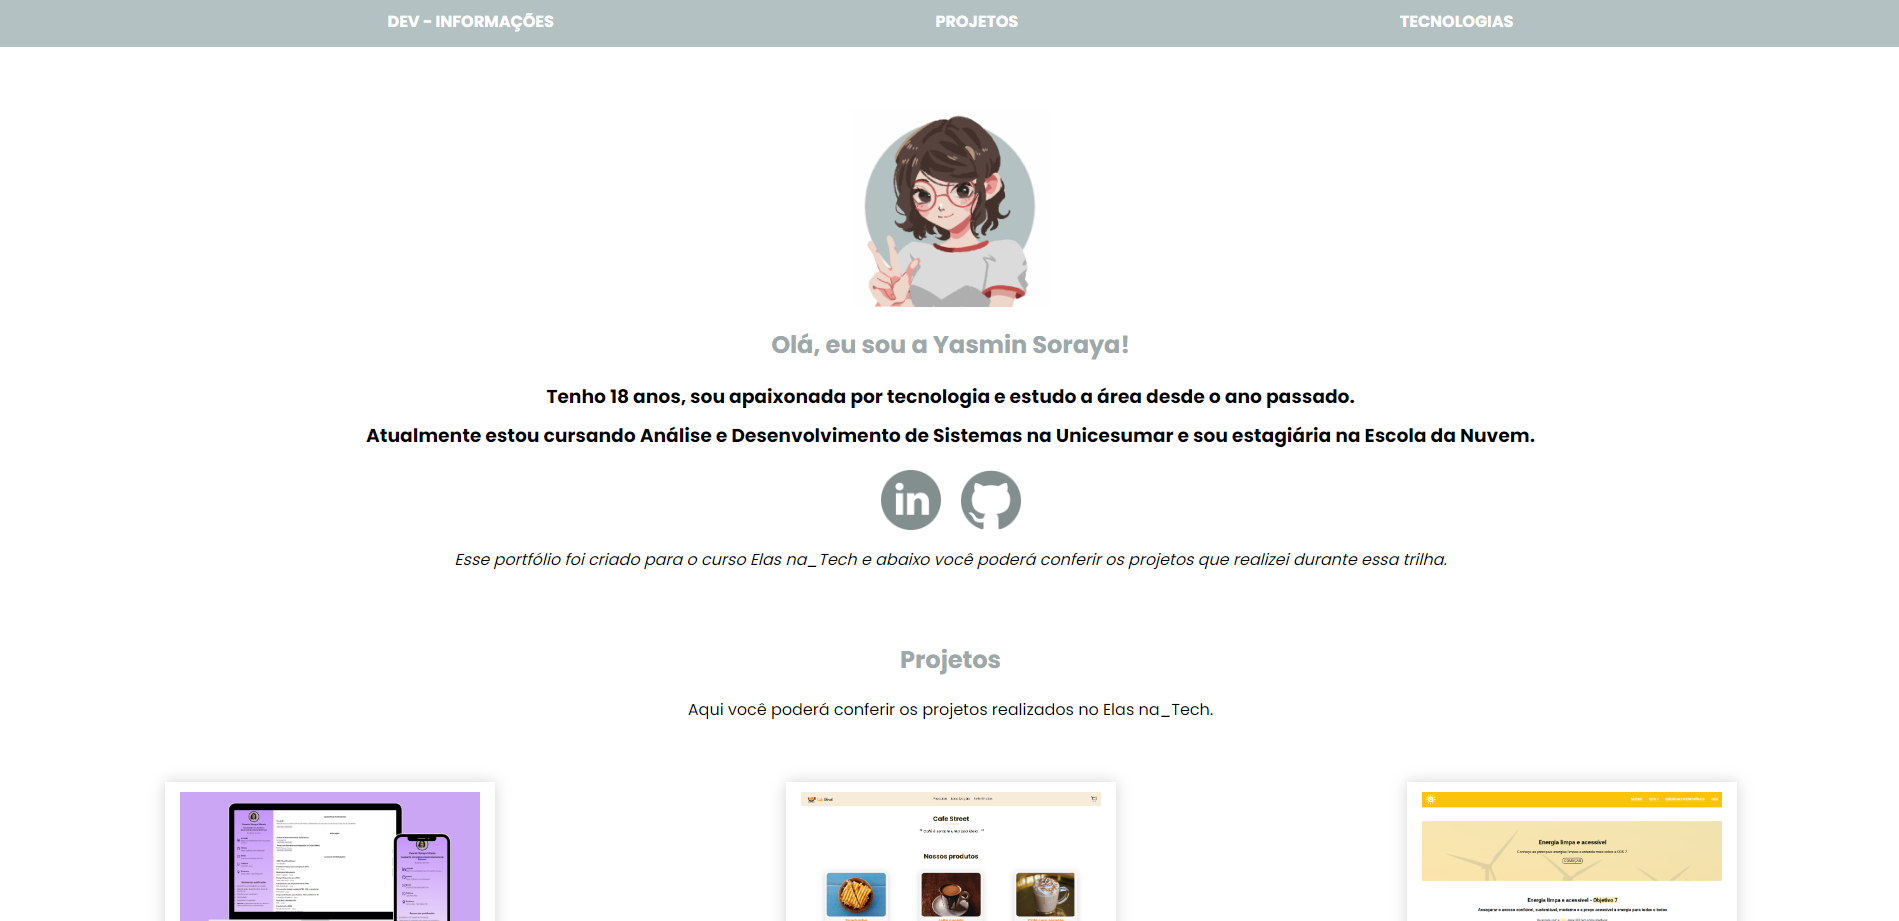
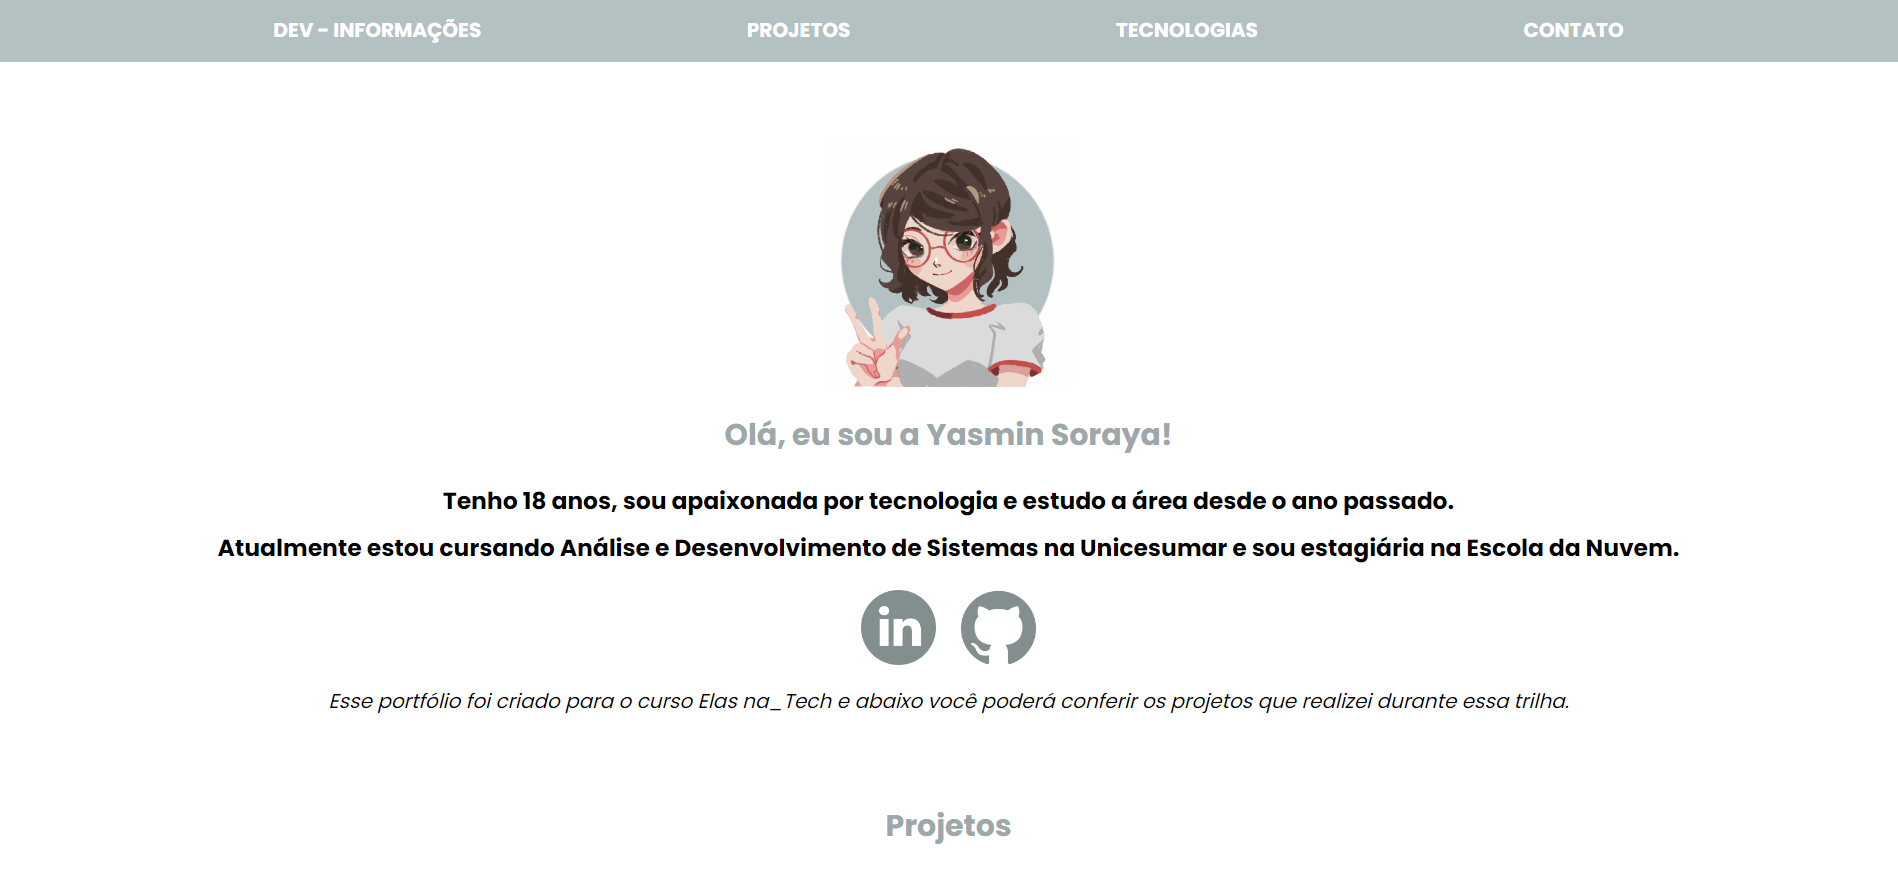
Alterações finais

diff --git a/contato.html b/contato.html
@@ -1,0 +1,70 @@
+<!DOCTYPE html>
+<html lang="pt-BR">
+
+<head>
+    <meta charset="UTF-8">
+    <meta name="viewport" content="width=device-width, initial-scale=1.0">
+    <title>Portfólio - Elas na_Tech</title>
+    <link rel="stylesheet" href="assets/css/styles.css">
+    <link rel="icon" href="assets/imgs/yasmin-icon.png">
+    <link rel="stylesheet"
+        href="https://fonts.googleapis.com/css2?family=Material+Symbols+Outlined:opsz,wght,FILL,GRAD@24,400,0,0" />
+</head>
+
+<body>
+    <nav id="nav-bar">
+        <div id="menu-icon">
+            <span class="material-symbols-outlined">
+                menu
+            </span>
+        </div>
+        <ul id="links">
+            <li class="link">
+                <a href="index.html#Dev">Dev - Informações</a>
+            </li>
+            <li class="link">
+                <a href="index.html#Projetos">Projetos</a>
+            </li>
+            <li class="link">
+                <a href="index.html#Tecnologias">Tecnologias</a>
+            </li>
+            <li class="link">
+                <a href="#Contato">Contato</a>
+            </li>
+        </ul>
+    </nav>
+
+    <section id="Contato">
+        <h1>Contato</h1>
+        <h3 class="info-dev">Entre em contato comigo pelas redes sociais ou pelo formulário abaixo</h3>
+        <div id="redes-sociais">
+            <a href="https://www.linkedin.com/in/yasmin-soraya/">
+                <img src="assets/imgs/linkedin-logo.png" alt="LinkedIn">
+            </a>
+            <a href="https://github.com/nimsaysm">
+                <img src="assets/imgs/github-logo.png" alt="GitHub">
+            </a>
+        </div>
+        <div id="form">
+            <h2>Envie sua mensagem</h2>
+            <form action="https://formsubmit.co/yasmin.soraya14@gmail.com" method="POST">
+                <label for="nome">Nome</label> <br>
+                <input type="text" name="name" id="nome" minlength="3" required> <br> <br>
+                
+                <label for="email">E-mail</label> <br>
+                <input type="email" name="email" id="email" pattern="(^[a-z0-9._%+-]+@[a-z0-9.-]+\.[a-z]{2,4}$)" required> <br> <br>
+    
+                <label for="mensagem">Digite a mensagem</label> <br> 
+                <textarea name="message" id="mensagem" minlength="15" required></textarea> <br> <br>
+    
+                <input type="hidden" name="_captcha" value="false">
+    
+                <input type="hidden" name="_next" value="http://127.0.0.1:5500/email-enviado.html">
+                <button id="btn-contato" type="submit">Enviar</button>
+           </form>
+        </div> 
+    </section>
+
+</body>
+    <script type="module" src="assets/js/main.js"></script>
+</html>

diff --git a/assets/css/styles.css b/assets/css/styles.css
@@ -18,7 +18,7 @@ body {
     font-family: 'Poppins', sans-serif;
     font-size: 1.6rem;
 }
-#nav-bar, #Dev, #Projetos, #Tecnologias, #ListaProjetos {
+#nav-bar, #Dev, #Projetos, #Tecnologias, #ListaProjetos, #Contato {
     padding: 1rem;
     margin-bottom: 5rem;
 }
@@ -70,6 +70,7 @@ a {
 }
 #redes-sociais {
     display: flex;
+    justify-content: center;
 }
 #redes-sociais img {
     width: 6rem;
@@ -78,6 +79,9 @@ a {
 #redes-sociais img:hover {
     transform: scale(1.2);
     cursor: pointer;
+}
+#Contato {
+    text-align: center;
 }
 #Projetos {
     display: grid;
@@ -109,7 +113,7 @@ a {
     color: black;
     font-weight: 500;
 }
-#mais-projetos {
+#mais-projetos, #btn-contato {
     background-color: var(--gray-title);
     color: white;
     padding: 1rem 3rem;
@@ -123,7 +127,7 @@ a {
     margin-bottom: -0.4rem;
     margin-left: 0.5rem;
 }
-#mais-projetos:hover{
+#mais-projetos:hover, #btn-contato:hover {
     background-color: var(--gray-darker);
     cursor: pointer;
 }
@@ -191,7 +195,25 @@ a {
     color: #5f6465;
     cursor: pointer;
 }
-
+#form {
+    margin: 3rem;
+    padding: 1rem;
+    display: grid;
+}
+#form label {
+    margin-bottom: 1rem;
+}
+#form input, textarea {
+    font-size: 1.6rem;
+    font-family: 'Poppins', sans-serif;
+    width: 30rem;
+}
+textarea {
+    height: 15rem;
+}
+#form input:focus, textarea:focus {
+    border-color: #838E8F;
+}
 @media only screen and (min-width: 700px) and (max-width: 1200px){
     #menu-icon {
         display: none;

diff --git a/email-enviado.html b/email-enviado.html
@@ -1,0 +1,41 @@
+<!DOCTYPE html>
+<html lang="pt-BR">
+
+<head>
+    <meta charset="UTF-8">
+    <meta name="viewport" content="width=device-width, initial-scale=1.0">
+    <title>Portfólio - Elas na_Tech</title>
+    <link rel="stylesheet" href="assets/css/styles.css">
+    <link rel="icon" href="assets/imgs/yasmin-icon.png">
+    <link rel="stylesheet"
+        href="https://fonts.googleapis.com/css2?family=Material+Symbols+Outlined:opsz,wght,FILL,GRAD@24,400,0,0" />
+</head>
+
+<body>
+    <nav id="nav-bar">
+        <div id="menu-icon">
+            <span class="material-symbols-outlined">
+                menu
+            </span>
+        </div>
+        <ul id="links">
+            <li class="link">
+                <a href="index.html#Dev">Dev - Informações</a>
+            </li>
+            <li class="link">
+                <a href="index.html#Projetos">Projetos</a>
+            </li>
+            <li class="link">
+                <a href="index.html#Tecnologias">Tecnologias</a>
+            </li>
+            <li class="link">
+                <a href="contato.html">Contato</a>
+            </li>
+        </ul>
+    </nav>
+
+    <h1 style="font-size: 5rem; margin-top: 15rem">O e-mail foi enviado!</h1>
+        
+</body>
+    <script type="module" src="assets/js/main.js"></script>
+</html>

diff --git a/todos-os-projetos.html b/todos-os-projetos.html
@@ -28,6 +28,9 @@
             <li class="link">
                 <a href="index.html#Tecnologias">Tecnologias</a>
             </li>
+            <li class="link">
+                <a href="contato.html">Contato</a>
+            </li>
         </ul>
     </nav>
 

diff --git a/index.html b/index.html
@@ -28,6 +28,9 @@
             <li class="link">
                 <a href="#Tecnologias">Tecnologias</a>
             </li>
+            <li class="link">
+                <a href="contato.html">Contato</a>
+            </li>
         </ul>
     </nav>
 
